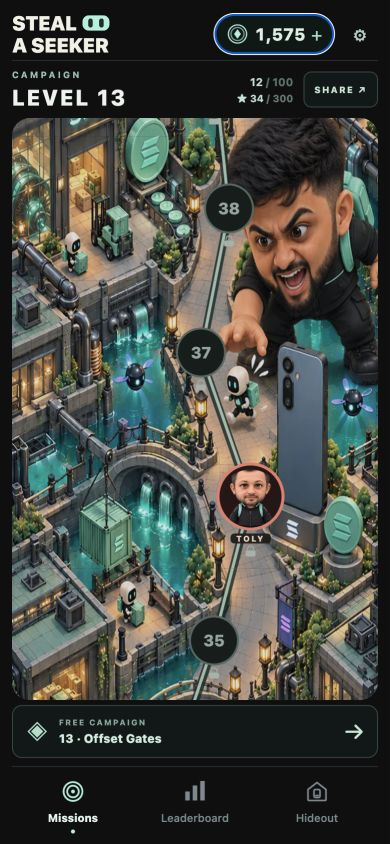
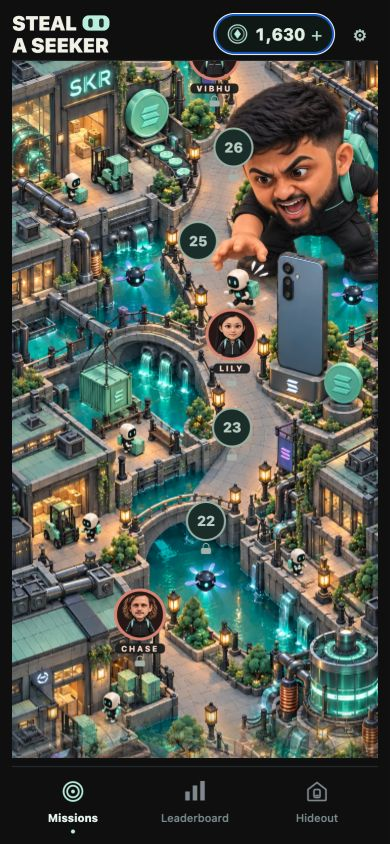
Align bridge nodes and keep more nearby scenes ready for scrolling

diff --git a/src/components/CampaignMap.tsx b/src/components/CampaignMap.tsx
@@ -48,7 +48,7 @@ export default function CampaignMap({entries,progress,current,onSelect}:{entries
  },[images,width,progress,entries,current.key,haptic,onSelect]);
  const extra=useMemo(()=>({progress,width,current:current.key,images}),[progress,width,current.key,images]);
  return <View testID="mission-districts" style={s.list} onLayout={e=>{const {width:w,height:h}=e.nativeEvent.layout;setSize(old=>old.width===w&&old.height===h?old:{width:w,height:h});}}>
-  {width>0&&<FlatList key={`${width}:${entries.length}`} ref={list} data={scenes} extraData={extra} renderItem={render} keyExtractor={r=>r.key} getItemLayout={getItemLayout} initialScrollIndex={currentScene} initialNumToRender={2} windowSize={3} maxToRenderPerBatch={2} showsVerticalScrollIndicator={false} onContentSizeChange={position} onScrollToIndexFailed={position}/>}
+  {width>0&&<FlatList key={`${width}:${entries.length}`} ref={list} data={scenes} extraData={extra} renderItem={render} keyExtractor={r=>r.key} getItemLayout={getItemLayout} initialScrollIndex={currentScene} initialNumToRender={2} windowSize={5} maxToRenderPerBatch={3} showsVerticalScrollIndicator={false} onContentSizeChange={position} onScrollToIndexFailed={position}/>}
  </View>;
 }
 const s=StyleSheet.create({

diff --git a/src/components/campaignMapLayout.ts b/src/components/campaignMapLayout.ts
@@ -7,7 +7,7 @@ export type MapScene={key:string;zone:CampaignZone;previousZone:CampaignZone|nul
 const roads:Record<CampaignZone,readonly (readonly [number,number])[]>={
  warehouse:[[0,.55],[.08,.68],[.2,.55],[.3,.45],[.4,.52],[.5,.67],[.6,.67],[.7,.6],[.8,.68],[.9,.52],[1,.43]],
  rooftops:[[0,.54],[.1,.6],[.2,.58],[.3,.63],[.4,.53],[.5,.55],[.6,.50],[.68,.49],[.76,.55],[.85,.50],[.95,.52],[1,.45]],
- powerworks:[[0,.56],[.1,.59],[.2,.62],[.3,.52],[.4,.63],[.48,.50],[.55,.53],[.62,.67],[.7,.56],[.78,.42],[.87,.42],[.95,.63],[1,.65]],
+ powerworks:[[0,.56],[.1,.59],[.2,.62],[.3,.52],[.4,.63],[.48,.50],[.55,.53],[.62,.67],[.7,.56],[.755,.53],[.80,.40],[.84,.35],[.88,.42],[.95,.63],[1,.65]],
 };
 function roadX(zone:CampaignZone,fraction:number,width:number){
  const points=roads[zone],upper=points.findIndex(p=>p[0]>=fraction);
